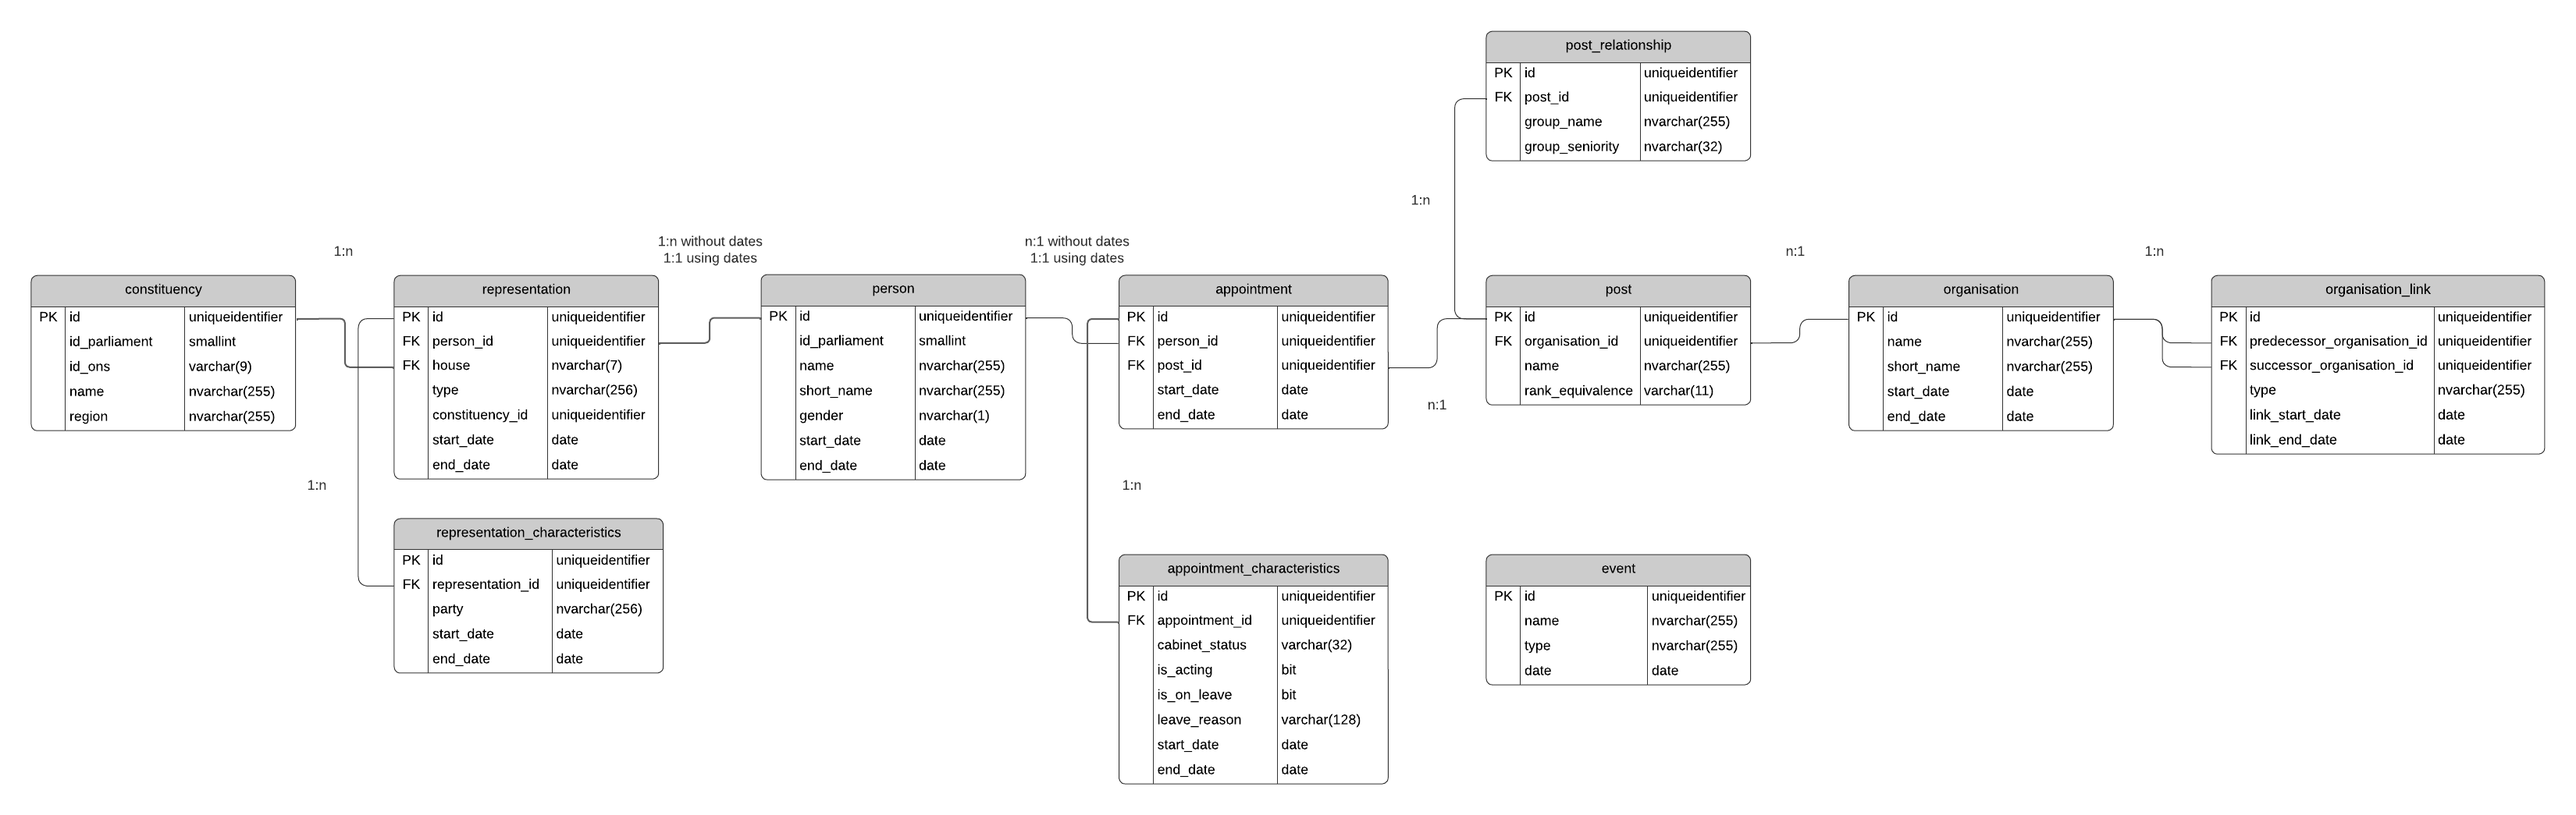
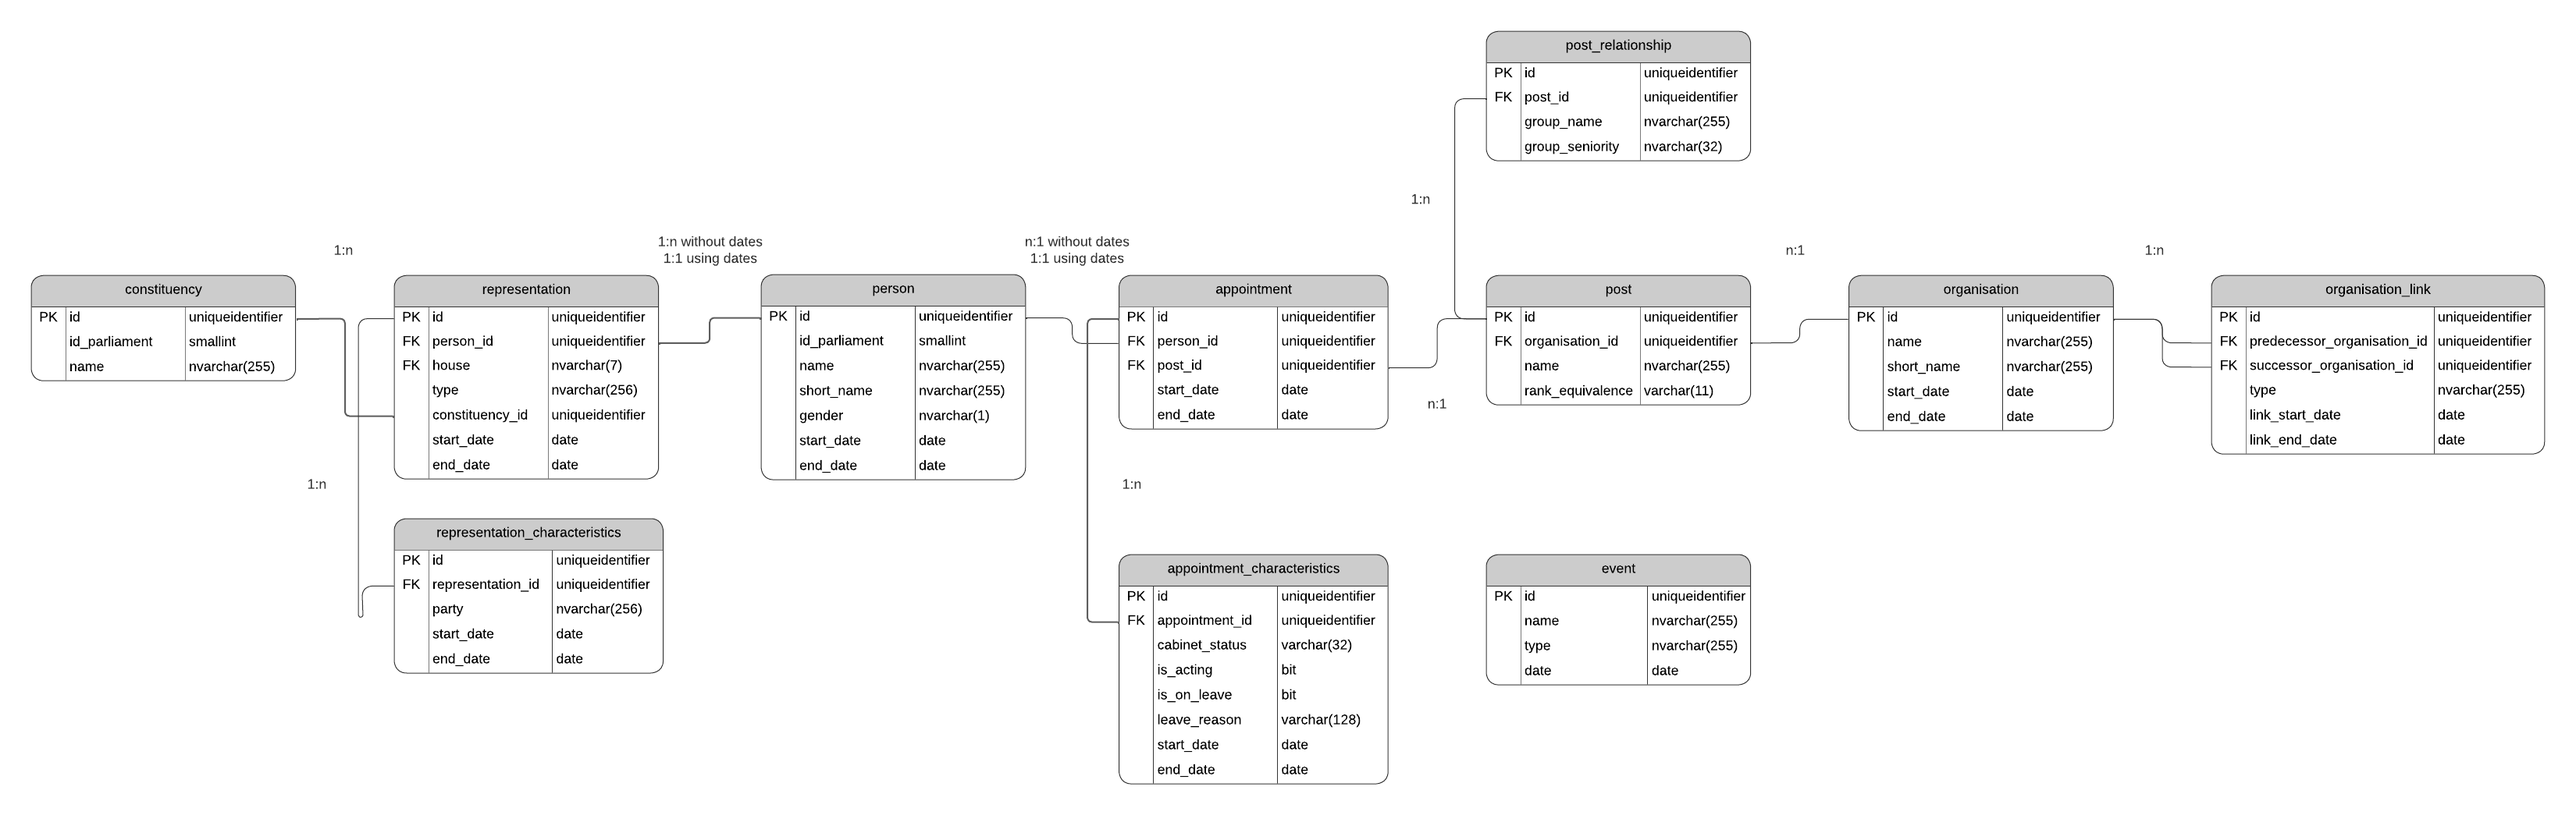
Update d/b diagram

Changed region(s): [[0.0312, 0.4287, 0.1561, 0.5206]]

diff --git a/README.md b/README.md
@@ -7,7 +7,7 @@ You can look up individual ministers, specific ministerial roles, the entire gov
 This repository contains the underlying data as well as related scripts.
 
 ## Database structure
-![Database diagram of the IfG Ministers Database](IfG%20Ministers%20Database%20-%20v2.1.0%20(Current).png)
+![Database diagram of the IfG Ministers Database](IfG%20Ministers%20Database%20-%20v2.1.0%20(current).png)
 
 The database consists of the following tables:
 
